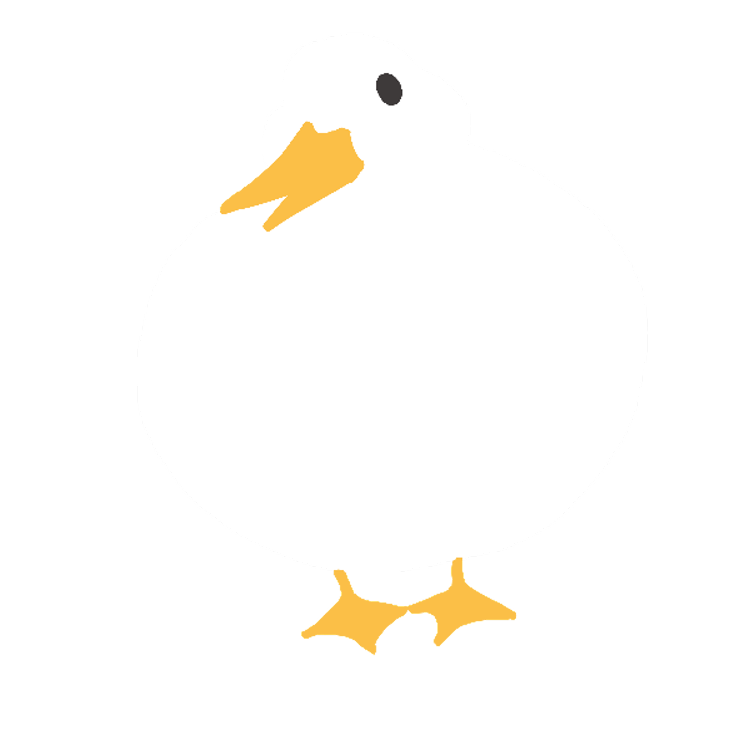
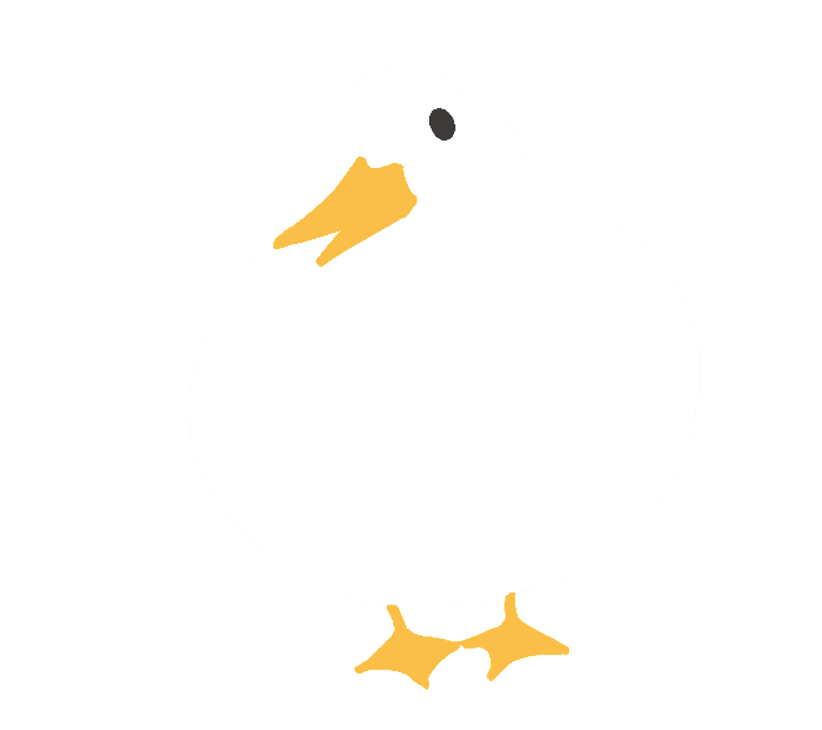
🎨 (style): responsive on all device

Changed region(s): [[0.3918, 0.7534, 0.7233, 0.9644], [0.3014, 0.1507, 0.5123, 0.3616], [0.5123, 0.0904, 0.5726, 0.211]]

diff --git a/src/app/pop-goose/page.tsx b/src/app/pop-goose/page.tsx
@@ -6,6 +6,9 @@ import defaultGoose from '../../../public/images/pop_goose/default_goose.png'
 import popGoose from '../../../public/images/pop_goose/pop_goose.png'
 import gooseShadow from '../../../public/images/pop_goose/goose-shadow.png'
 import ScoreBar from './components/ScoreBar'
+import styles from '@/app/styles/game/game.module.css'
+import { Icon } from '@iconify/react/dist/iconify.js'
+import Link from 'next/link'
 
 const PopGoosePage = () => {
   const [score, setScore] = useState(0)
@@ -21,28 +24,36 @@ const PopGoosePage = () => {
   }, [])
 
   return (
-    <section className="bg-[#9FC5E8] bg-gameBg bg-cover bg-center bg-no-repeat flex items-center justify-center min-h-screen pt-4">
-      {/* Navbar */}
+    <section
+      className={`bg-[#9FC5E8] bg-gameBgSm sm:bg-gameBgMd xl:bg-gameBg bg-cover bg-center bg-no-repeat flex items-center justify-center min-h-screen py-4 select-none  ${styles['no-select']}`}>
+      <Link href={'/'}>
+        <Icon
+          icon={'bxs:left-arrow'}
+          className="text-[#e9000080] absolute top-[50px] sm:top-[80px] sm:left-[80px] text-2xl sm:text-5xl xl:text-6xl"
+        />
+      </Link>
+      <div className="flex flex-col h-[600px] sm:h-[700px] xl:h-full items-center justify-between space-y-2">
+        <div className="flex flex-col items-center justify-center gap-4">
+          <h1 className="text-5xl sm:text-6xl lg:text-7xl font-RampartOne text-[#FFF]">
+            POP GOOSE
+          </h1>
+          <p className="text-3xl sm:text-4xl font-ReemKufiInk text-[#FFF] pt-2">
+            {score}
+          </p>
+        </div>
 
-      <div className="flex flex-col items-center justify-center space-y-2">
-        <h1 className="text-7xl font-RampartOne text-[#FFF]">POP GOOSE</h1>
-        <p className="text-3xl font-ReemKufiInk text-[#FFF] pt-2">{score}</p>
-
-        <div className="relative flex flex-col items-center">
+        <div className="relative flex flex-col items-center justify-center">
           <Image
             src={gooseShadow}
             alt="Shadow"
             width={300}
             height={80}
-            className="absolute right-[80px] bottom-[40px]"
+            priority
+            className="absolute right-[70px] sm:right-[250px] md:right-[280px] lg:right-[270px] bottom-[60px] sm:bottom-[100px] w-[180px] h-[30px] sm:w-[280px] sm:h-[50px]"
             draggable="false"
           />
 
-          {isPopped && (
-            <div className="absolute right-6 bottom-16 bg-[#FFE7B8] h-[360px] w-[380px] opacity-50 blur-3xl rounded-full" />
-          )}
-
-          <button
+          <div
             onMouseDown={handlePress}
             onMouseUp={handleRelease}
             onTouchStart={handlePress}
@@ -53,12 +64,12 @@ const PopGoosePage = () => {
               width={500}
               height={500}
               draggable="false"
-              className="transition-transform transform active:scale-105 object-contain w-[500px] h-[500px]"
+              priority
+              className="transition-transform transform active:scale-105 object-contain w-[340px] h-[340px] sm:w-[500px] sm:h-[500px]"
             />
-          </button>
+          </div>
+          <ScoreBar kmutt={19999} kmilt={888888} kmutnb_bkk={777777} />
         </div>
-
-        <ScoreBar kmutt={19999} kmilt={888888} kmutnb_bkk={777777} />
       </div>
     </section>
   )

diff --git a/src/app/pop-goose/components/ScoreBar.tsx b/src/app/pop-goose/components/ScoreBar.tsx
@@ -28,15 +28,13 @@ const ScoreBar: FC<ScoreBarProps> = ({
   }, [kmutt, kmilt, kmutnb_bkk])
 
   return (
-    <div className="bg-[#ECECEC] min-w-[400px] w-[850px] p-6 rounded-full">
-      <ul className="flex flex-row items-center justify-evenly gap-6 font-PressStart2P">
+    <div className="bg-[#ECECEC] w-[365px] h-[30px] flex items-center justify-center sm:h-[60px] sm:w-[620px] md:w-[750px] lg:w-[850px] p-2 sm:p-4 rounded-full">
+      <ul className="flex flex-row items-center justify-evenly gap-3 sm:gap-6 font-PressStart2P">
         {sortedTeams.map((team, index) => (
           <li
             key={team.name}
-            className="flex items-center justify-center gap-2">
-            <span>
-              {index + 1}.{team.name}
-            </span>
+            className="flex items-center justify-center gap-2 text-[7px] sm:text-[12px] md:text-base">
+            {index + 1}.<span>{team.name}</span>
             <span className="text-[#3A5FE5]">{team.score}</span>
           </li>
         ))}

diff --git a/tailwind.config.ts b/tailwind.config.ts
@@ -23,7 +23,9 @@ export default {
         // tailwind usage: bg-default-gradient
         'default-gradient':
           'linear-gradient(90deg, rgba(160,6,6,1) 0%, rgba(0,0,0,1) 100%)',
-        gameBg: "url('../../public/images/pop_goose/game_background.png')"
+        gameBg: "url('../../public/images/pop_goose/game_background.png')",
+        gameBgMd: "url('../../public/images/pop_goose/md_game_background.png')",
+        gameBgSm: "url('../../public/images/pop_goose/sm_game_background.png')"
       },
       fontFamily: {
         BenguiatITCbyBT: ['BenguiatITCbyBT', 'sans-serif'],

diff --git a/src/app/styles/game/game.module.css b/src/app/styles/game/game.module.css
@@ -1,0 +1,5 @@
+.no-select {
+   -webkit-user-select: none;
+   user-select: none;
+   -webkit-touch-callout: none;
+}
